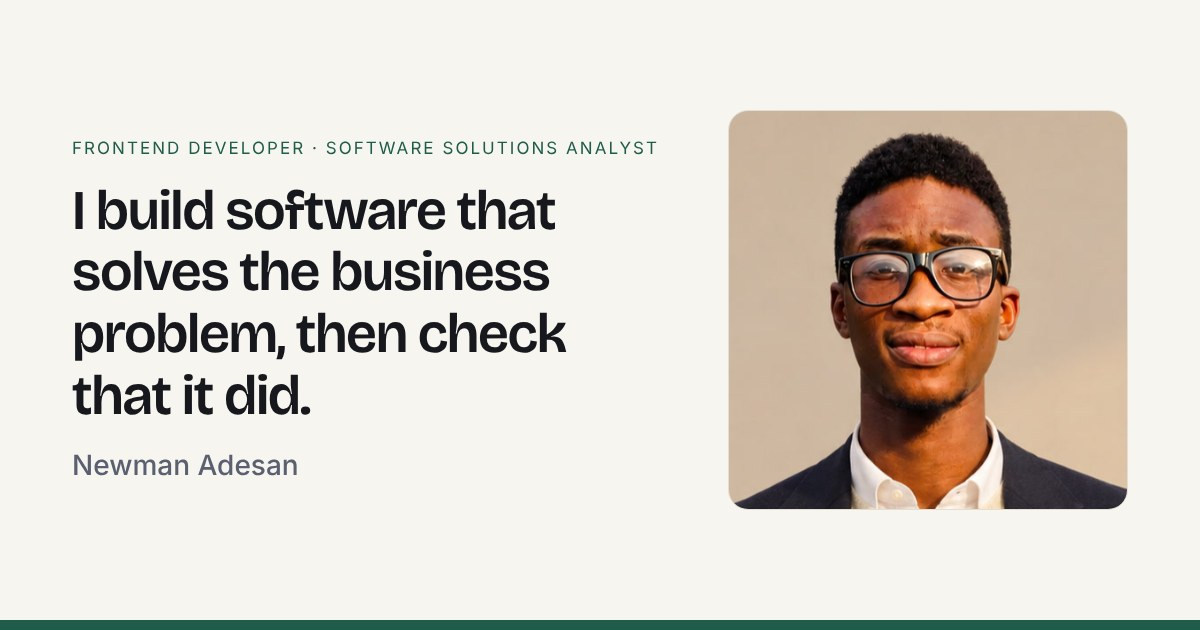
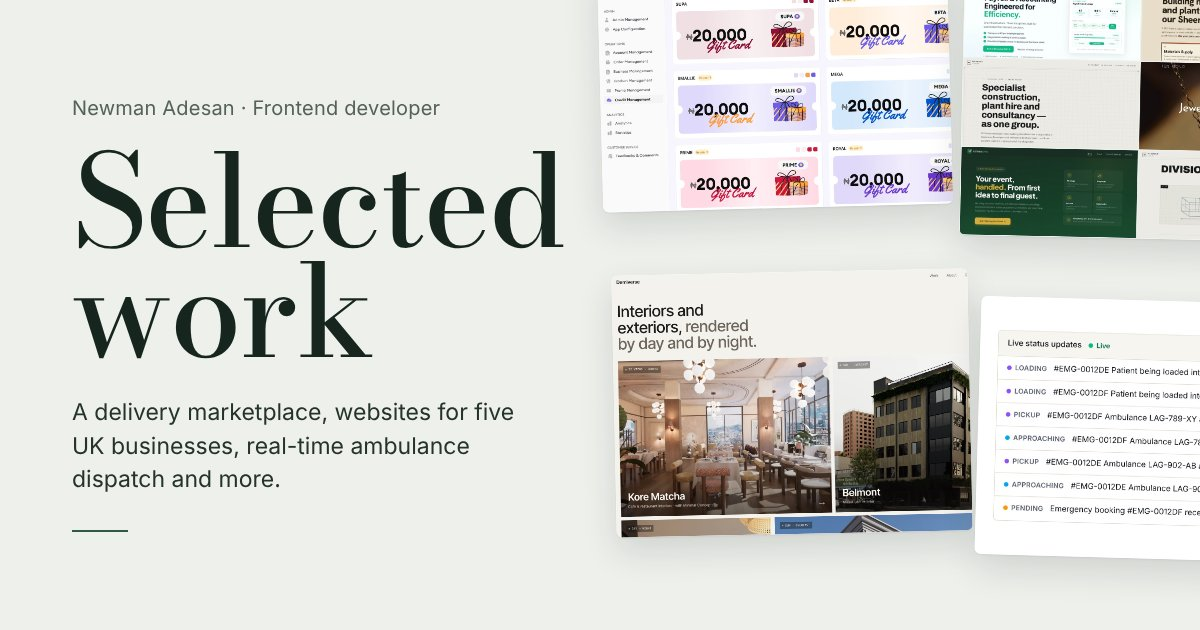
Project-collage share image, project-led description, UK sites after Shkula
The home link now previews with screenshots of four projects beside
'Selected work' and the name, instead of the headshot. The share title
becomes 'Newman Adesan · Selected work' and the description lists the
projects. The five UK business websites join as one case study right
after Shkula; stories can carry their own link and screenshots.

Claude-Session: https://claude.ai/code/session_015w4ga5zwPvRrWHFYb1okky

diff --git a/content/projects.ts b/content/projects.ts
@@ -20,7 +20,7 @@ export type Project = {
   context: string;
   built: string[];
   // Your own account of a hard problem and how you solved it. Leave empty until written.
-  story?: { heading: string; body: string; demo?: DemoId }[];
+  story?: { heading: string; body: string; demo?: DemoId; link?: { href: string; label: string }; shots?: Shot[] }[];
   // Version history, shown before the stories.
   timeline?: { label: string; text: string }[];
   videos?: Video[];
@@ -182,6 +182,75 @@ export const projects: Project[] = [
       { src: "/images/shkula/blog_system_A.png", alt: "Shkula blog listing" },
       { src: "/images/shkula/blog_system_B.png", alt: "Shkula blog article" },
     ],
+  },
+  {
+    slug: "uk-business-websites",
+    name: "UK business websites",
+    tagline: "Websites for five UK small businesses",
+    role: "Web developer",
+    period: "2026",
+    stack: ["React", "Vite", "Tailwind CSS"],
+    summary:
+      "Five live websites for UK businesses: a builders' merchant and plant hire yard, a construction group, a payroll bureau, a jewellery dealer and an event planner.",
+    proof: "Five live sites, each with a look taken from the trade it serves.",
+    context:
+      "Each business needed a site that explains what it does in the language of its own trade and makes the next step obvious: call the yard, brief the group, book a discovery call, enquire about a piece, or start planning an event.",
+    built: [
+      "A.M.S Traders: a one-page site for a Sheerness yard that sells building materials and hires out plant.",
+      "RF Group: a one-page site for a construction, plant hire and consultancy group, designed like a technical drawing set.",
+      "XSAI Resources: a six-page site for a payroll and accounting bureau, including a page that explains how payroll economics work.",
+      "IQ2 Gold: a one-page boutique for a Hatton Garden jewellery and gold dealer.",
+      "Lets Go Limes: a four-page site for an event planning company.",
+    ],
+    story: [
+      {
+        heading: "A.M.S Traders",
+        body: "A builders' merchant and plant hire yard in Sheerness, Kent. The business runs two counters from one yard, materials supply and plant hire, with one trade account across both, and the site is organised the same way.\n\nThe hero splits into the two counters. Supply is an eight-category grid, from timber and sheet to landscaping. Hire is a table of plant by category with every rate shown as \"On request\", because the yard quotes hire per job. A three-step section explains opening a trade account, and the contact section gives the yard's address with a directions link, opening hours and a click-to-call number.",
+        link: { href: "https://amstradersuk.com", label: "amstradersuk.com" },
+        shots: [
+          { src: "/images/uk-sites/ams-hero.jpg", alt: "A.M.S Traders: the hero, split into the supply and hire counters" },
+          { src: "/images/uk-sites/ams-hire.jpg", alt: "A.M.S Traders: the plant hire table, quoted per job" },
+        ],
+      },
+      {
+        heading: "RF Group",
+        body: "A group that does specialist construction, plant hire and management consultancy. Its pitch is that a developer briefs one team instead of three separate suppliers.\n\nThe site is designed like a technical drawing set, with grid paper, sheet and revision labels, and a line drawing for each division. The approach section draws the argument as two diagrams side by side: the usual setup, where the client manages every handoff between builder, plant and consultant, and RF's setup, where those handoffs happen inside the group. The enquiry section lists what to include in a brief, and the footer carries the company's registration details.",
+        link: { href: "https://rfgrouplimited.com", label: "rfgrouplimited.com" },
+        shots: [
+          { src: "/images/uk-sites/rf-hero.jpg", alt: "RF Group: the hero on drawing-sheet grid paper" },
+          { src: "/images/uk-sites/rf-approach.jpg", alt: "RF Group: the usual three-supplier setup beside the one-group setup" },
+        ],
+      },
+      {
+        heading: "XSAI Resources",
+        body: "A UK payroll and accounting bureau that charges a flat £3 per employee per month. Its site has six pages: home, payroll, accounting, admin support, insights and \"Our Edge\".\n\nIts main selling point is easy to misread. Employers fund payroll several days before pay date, and the money can earn treasury benefit at the bank in that window. Most providers keep all of it; XSAI returns part of it to clients as loyalty credits. Described carelessly, that sounds like an investment product, which it isn't. Every mention of the programme on the site sits next to a plain statement of what it is not: not an investment, not interest on deposits, not guaranteed income. The Insights page walks through the economics step by step, from the funding window to why most providers never mention it. The home page opens with an overview panel showing the payroll cycle and the £3 rate.",
+        link: { href: "https://xsairesources.com", label: "xsairesources.com" },
+        shots: [
+          { src: "/images/uk-sites/xsai-hero.jpg", alt: "XSAI Resources: the hero with the payroll overview panel" },
+          { src: "/images/uk-sites/xsai-loyalty.jpg", alt: "XSAI Resources: the loyalty credit programme, with what it is not" },
+        ],
+      },
+      {
+        heading: "IQ2 Gold",
+        body: "A luxury jewellery, watch and gold dealer in Hatton Garden, London. The site is a boutique rather than a shop: six collection categories and a grid of trending pieces, each with an Enquire button instead of a price or a checkout.\n\nThe contact section offers WhatsApp, phone and email with opening hours, and the footer lists the trading address, registered office and VAT number.",
+        link: { href: "https://iq2gold.com", label: "iq2gold.com" },
+        shots: [
+          { src: "/images/uk-sites/iq2-hero.jpg", alt: "IQ2 Gold: the hero" },
+          { src: "/images/uk-sites/iq2-trending.jpg", alt: "IQ2 Gold: trending pieces, each with an Enquire button" },
+        ],
+      },
+      {
+        heading: "Lets Go Limes",
+        body: "An event planning and coordination company working on weddings, corporate functions, school programmes and community events across the UK. The site has four pages: home, about, events and services, and contact.\n\nThe home page sets out the six steps of the company's process on a timeline, from planning structure to event-day assistance. The services page covers six event types in an accordion, each opening to how the company helps, followed by the four stages a client can bring them in at. The contact page lists the details worth including in a first enquiry, so the first conversation is useful.",
+        link: { href: "https://letsgolimes.com", label: "letsgolimes.com" },
+        shots: [
+          { src: "/images/uk-sites/limes-hero.jpg", alt: "Lets Go Limes: the hero with the five event types" },
+          { src: "/images/uk-sites/limes-process.jpg", alt: "Lets Go Limes: the six-step process" },
+        ],
+      },
+    ],
+    cover: { src: "/images/uk-sites/cover.jpg", alt: "The five UK business websites" },
+    shots: [],
   },
   {
     slug: "ambulance-dispatch",

diff --git a/app/layout.tsx b/app/layout.tsx
@@ -8,9 +8,9 @@ import "./globals.css";
 // Display headings only: a high-contrast Didone. One weight keeps the file small; body text stays on the system font.
 const display = Bodoni_Moda({ weight: "500", subsets: ["latin"], variable: "--font-bodoni", display: "swap" });
 
-const siteTitle = `${profile.name} · ${profile.title} and ${profile.secondTitle.toLowerCase()}`;
+const siteTitle = `${profile.name} · Selected work`;
 const siteDescription =
-  "I build software that solves the business problem, then check that it did. Case studies: a delivery marketplace through five versions, real-time ambulance dispatch, and school management across more than ten schools.";
+  "Case studies: a delivery marketplace through five versions, websites for five UK businesses, real-time ambulance dispatch, and school management across more than ten schools.";
 
 export const metadata: Metadata = {
   metadataBase: new URL(profile.siteUrl),
@@ -23,7 +23,7 @@ export const metadata: Metadata = {
     title: siteTitle,
     description: siteDescription,
     url: "/",
-    images: [{ url: "/og.jpg", width: 1200, height: 630, alt: `${profile.name}, ${profile.title}` }],
+    images: [{ url: "/og.jpg", width: 1200, height: 630, alt: `${profile.name}: selected work, with screenshots of four of the projects` }],
   },
   twitter: { card: "summary_large_image", title: siteTitle, description: siteDescription, images: ["/og.jpg"] },
 };

diff --git a/app/work/[slug]/page.tsx b/app/work/[slug]/page.tsx
@@ -150,6 +150,18 @@ export default async function CaseStudy({ params }: Props) {
             <section key={part.heading} className={sectionGrid}>
               <h2 className={h2}>{part.heading}</h2>
               <Story body={part.body} className={prose} />
+              {part.link && (
+                <p className="md:col-span-7 md:col-start-6">
+                  <a href={part.link.href} className="link link-ruled text-accent">
+                    {part.link.label}
+                  </a>
+                </p>
+              )}
+              {part.shots && part.shots.length > 0 && (
+                <div className="mt-6 md:col-span-12">
+                  <Gallery shots={part.shots} label={`${part.heading} screenshots`} />
+                </div>
+              )}
               {part.demo && (
                 <div className="mt-6 md:col-span-10 md:col-start-3">
                   <Demo id={part.demo} />
